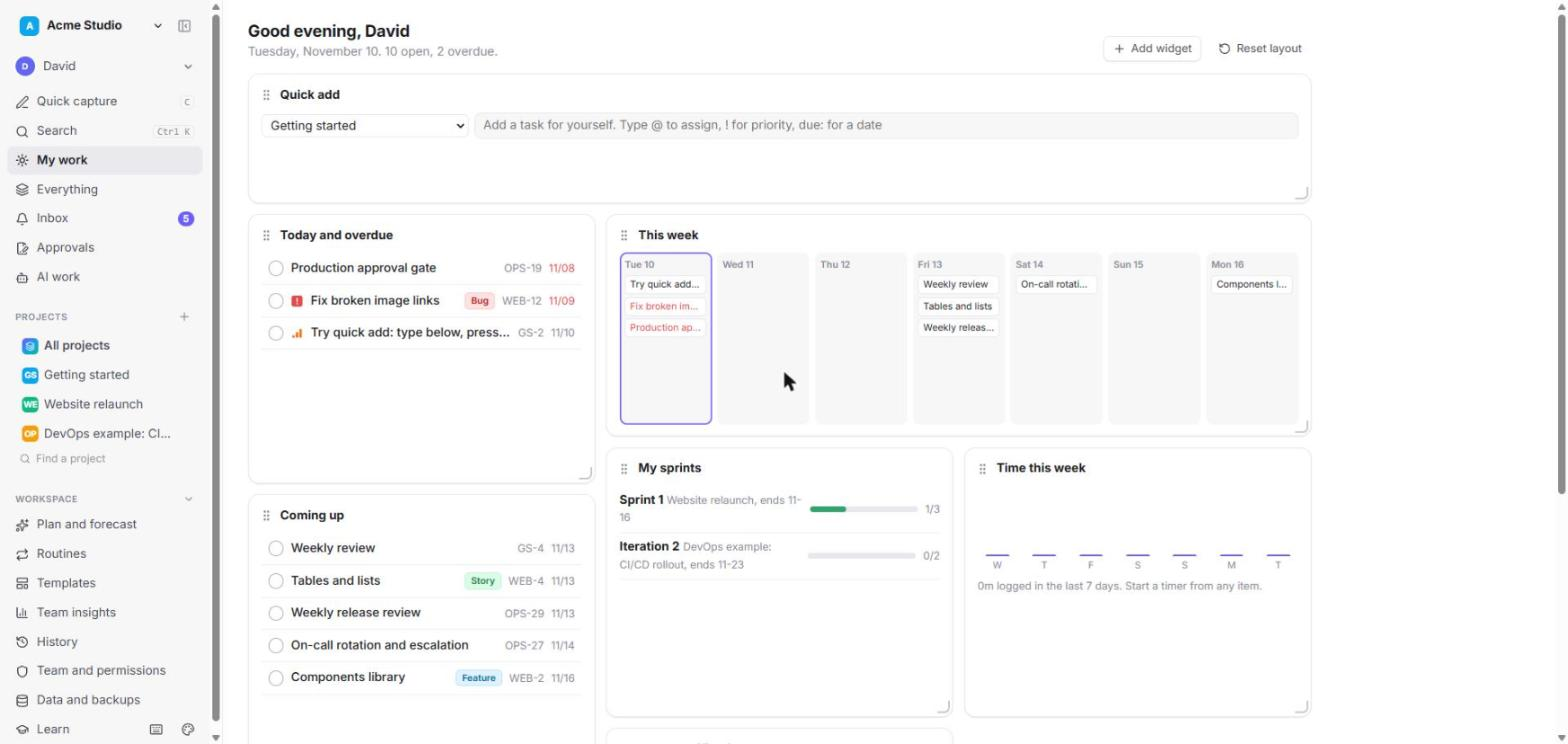
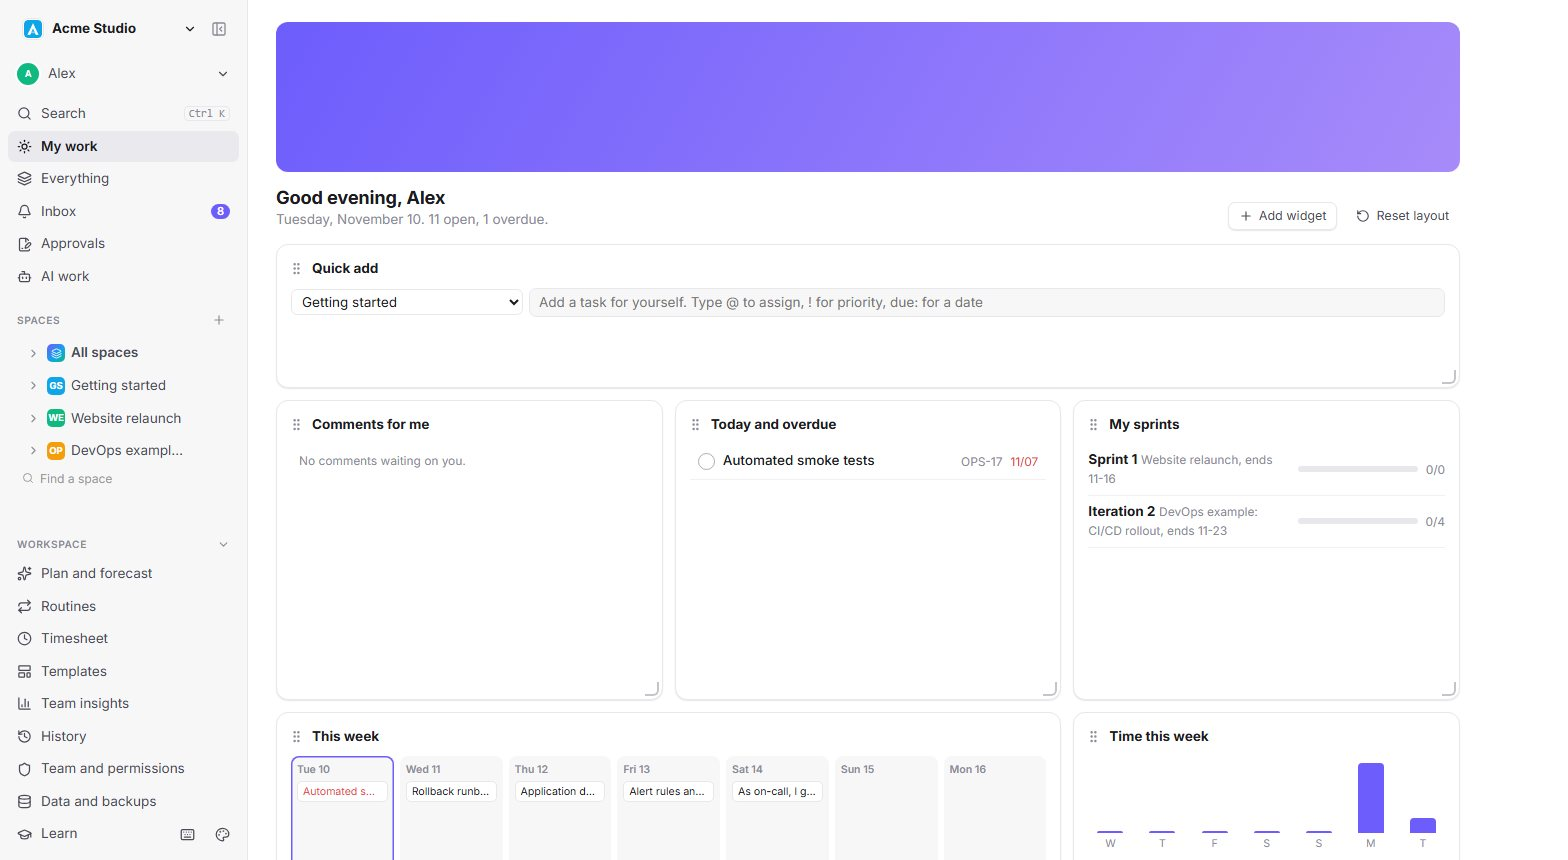
README screenshots refreshed; demo shows colored rows, Time tracked column and logged time
- New screenshots of My work, table, board, timeline, Everything, workspace switcher with logos,
  the new-space level presets and the Customization card
- Demo seed: the website space has color rules (done first), a Time tracked column and some logged
  time; My work gets a purple header

diff --git a/server/demo.ts b/server/demo.ts
@@ -34,7 +34,21 @@ export function seedSampleWorkspaces(open: (w: WorkspaceInfo) => Tasks) {
   header(work, space('Website'), 'header-hills.jpg');
   header(work, space('DevOps'), 'header-shapes.jpg');
   const alex = work.listPeople().find(p => p.kind !== 'ai');
-  if (alex) work.setPref(alex.id, 'cover:mywork', {gradient: 7});
+  if (alex) work.setPref(alex.id, 'cover:mywork', {gradient: 0});
+  // Show off colored rows and time tracking on the website space.
+  const web = space('Website');
+  if (web) {
+    work.updateProject(web.id, {fields: [...web.fields, {id: 'tracked', name: 'Time tracked', kind: 'time'}]});
+    const colors = [
+      {rule: {field: 'statusGroup', op: 'is' as const, value: 'done'}, color: '#10b981'},
+      {rule: {field: 'due', op: 'before' as const, value: 'today'}, color: '#ef4444'},
+      {rule: {field: 'priority', op: 'is' as const, value: '1'}, color: '#f97316'},
+    ];
+    for (const v of work.listViews(web.id).filter(v => ['table', 'list', 'board'].includes(v.kind))) work.updateView(v.id, {config: {...v.config, colors}});
+    const people = work.listPeople().filter(p => p.kind !== 'ai');
+    work.listItems({projectId: web.id}).slice(0, 8).forEach((it, n) =>
+      work.logTime({itemId: it.id, person: people[n % people.length].id, minutes: 35 + n * 25, date: addUnit(work.today(), -(n % 4), 'day')}));
+  }
   const w = updateWorkspace(createWorkspace({name: 'Personal', color: '#10b981', icon: 'P'}).id, {logo: logo('logo-personal.png')});
   const t = open(w);
   const me = t.createPerson({name: 'David', email: 'david@example.com'});

diff --git a/README.md b/README.md
@@ -44,9 +44,10 @@ Serves the app and API on http://127.0.0.1:8080 (set `PORT` and `HOST` to change
 
 | | |
 | --- | --- |
-| ![Table with formula, rollup, money and rating columns](docs/screenshots/table.jpg) | ![Timeline with dependencies and critical path](docs/screenshots/timeline.jpg) |
-| ![Board](docs/screenshots/board.jpg) | ![Everything across workspaces](docs/screenshots/everything.jpg) |
-| ![Template editor with relative dates](docs/screenshots/template.jpg) | ![Workspace switcher](docs/screenshots/workspaces.jpg) |
+| ![Table with header picture, colored rows and Time tracked column](docs/screenshots/table.jpg) | ![Timeline with dependencies and critical path](docs/screenshots/timeline.jpg) |
+| ![Board with header, colors and timers on cards](docs/screenshots/board.jpg) | ![Everything across workspaces](docs/screenshots/everything.jpg) |
+| ![Template editor with relative dates](docs/screenshots/template.jpg) | ![Workspace switcher with logos](docs/screenshots/workspaces.jpg) |
+| ![New space with level presets](docs/screenshots/newspace.jpg) | ![Customization: team setup, personal layouts, feature switches](docs/screenshots/customization.jpg) |
 
 ## Features
 
